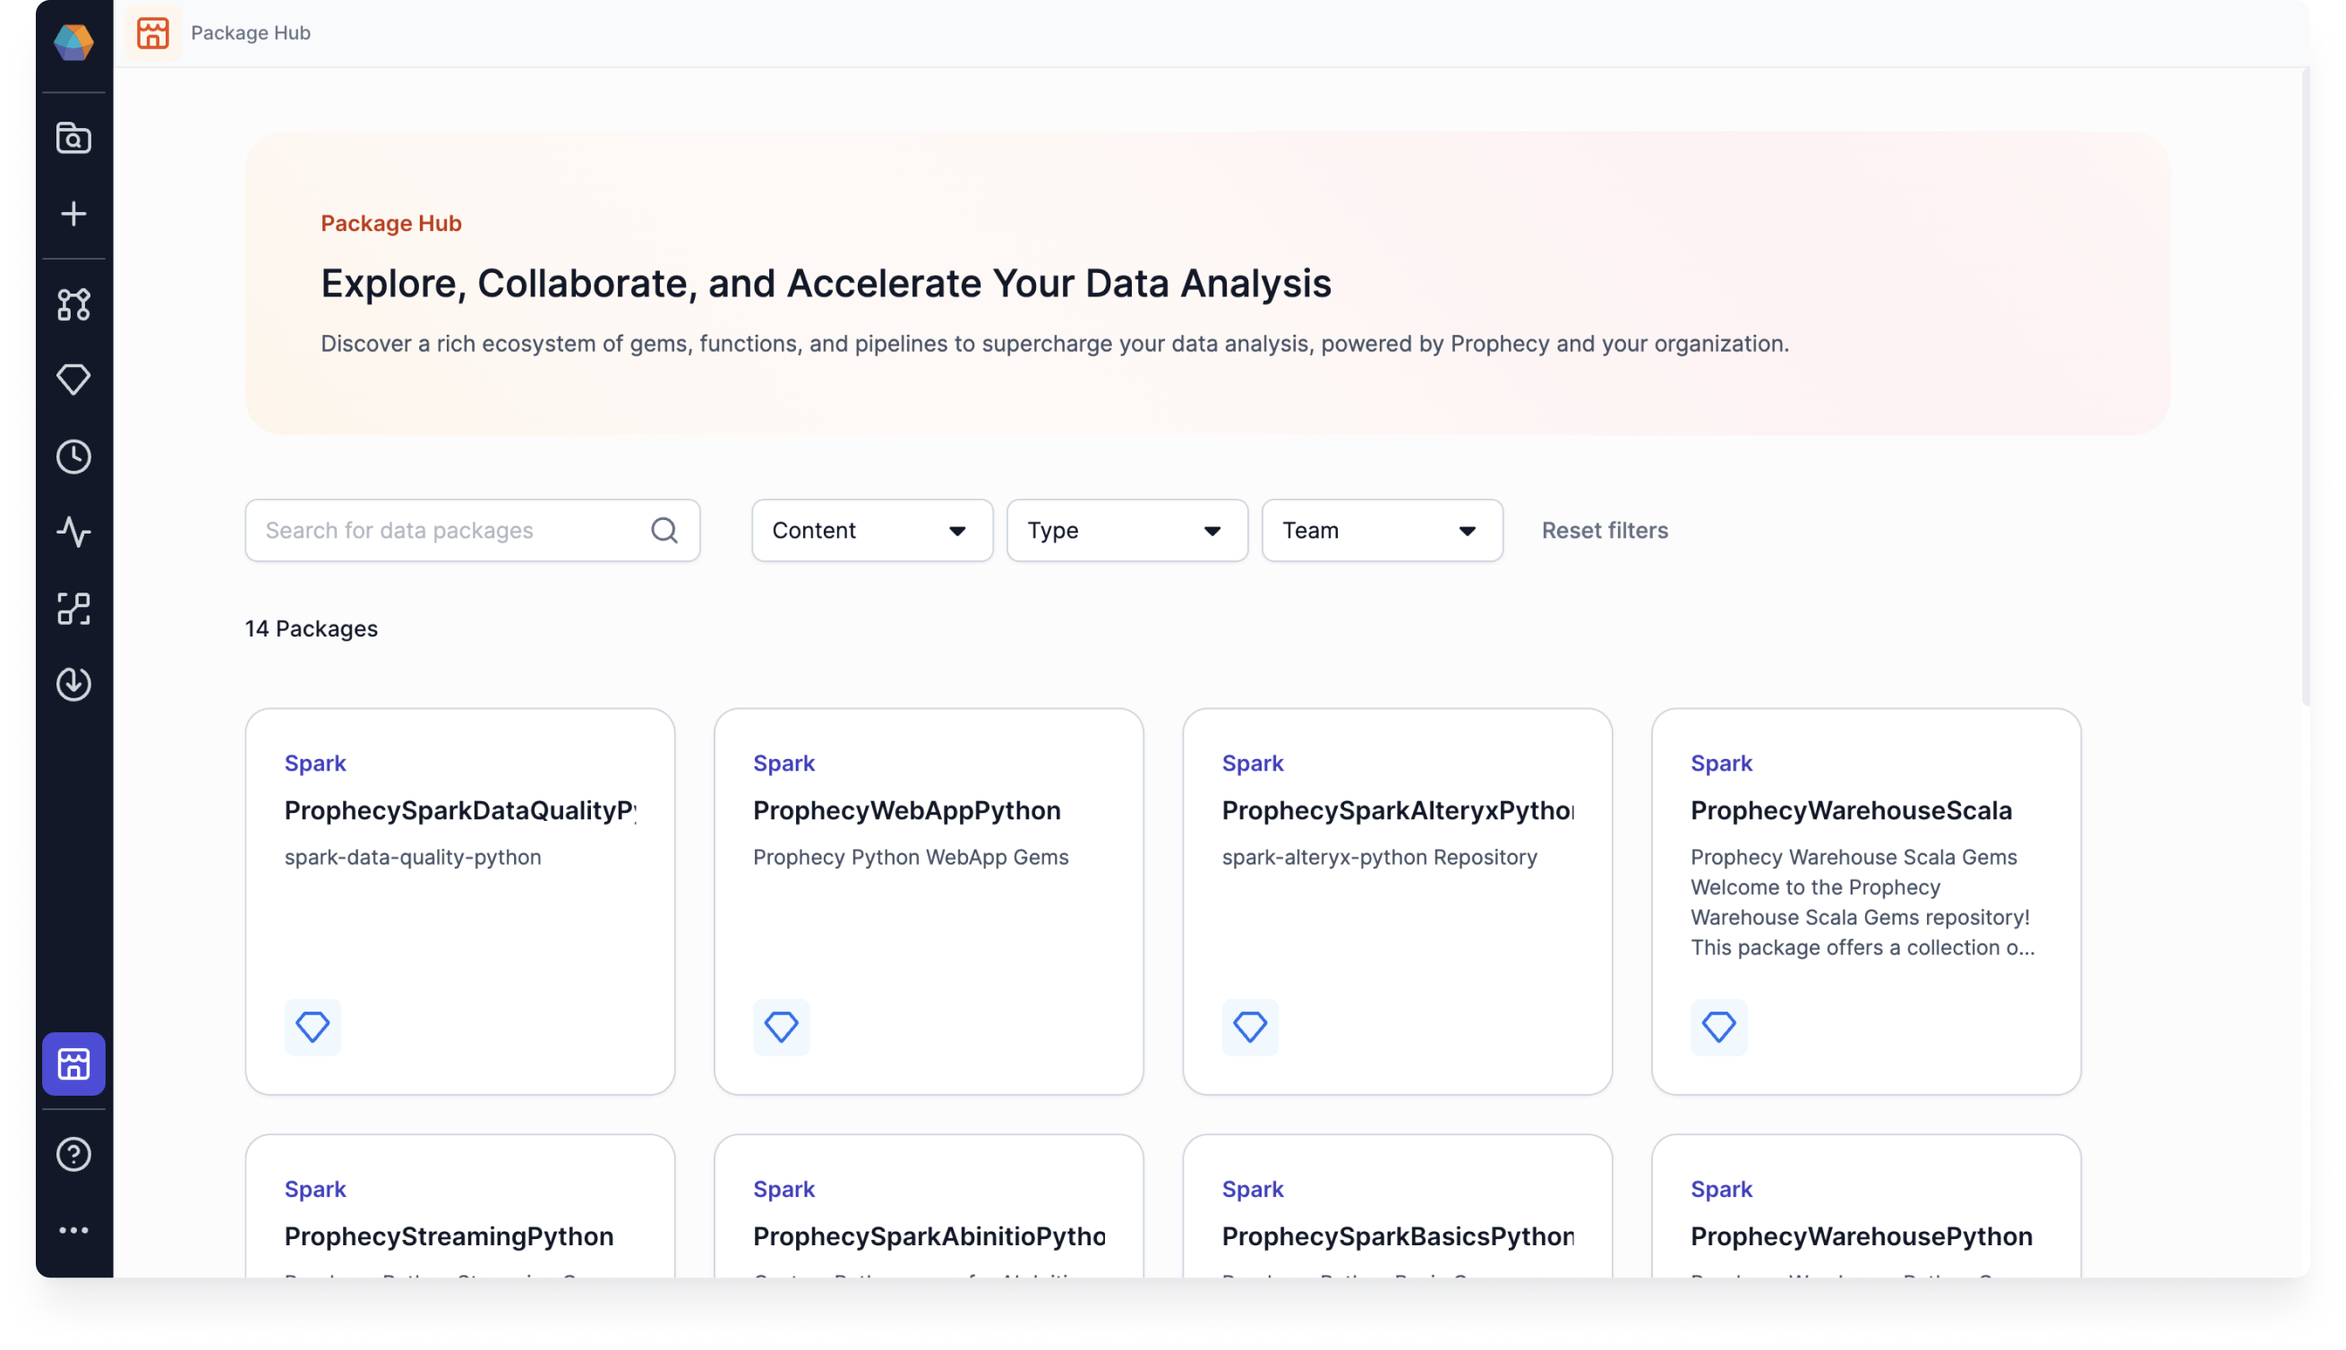
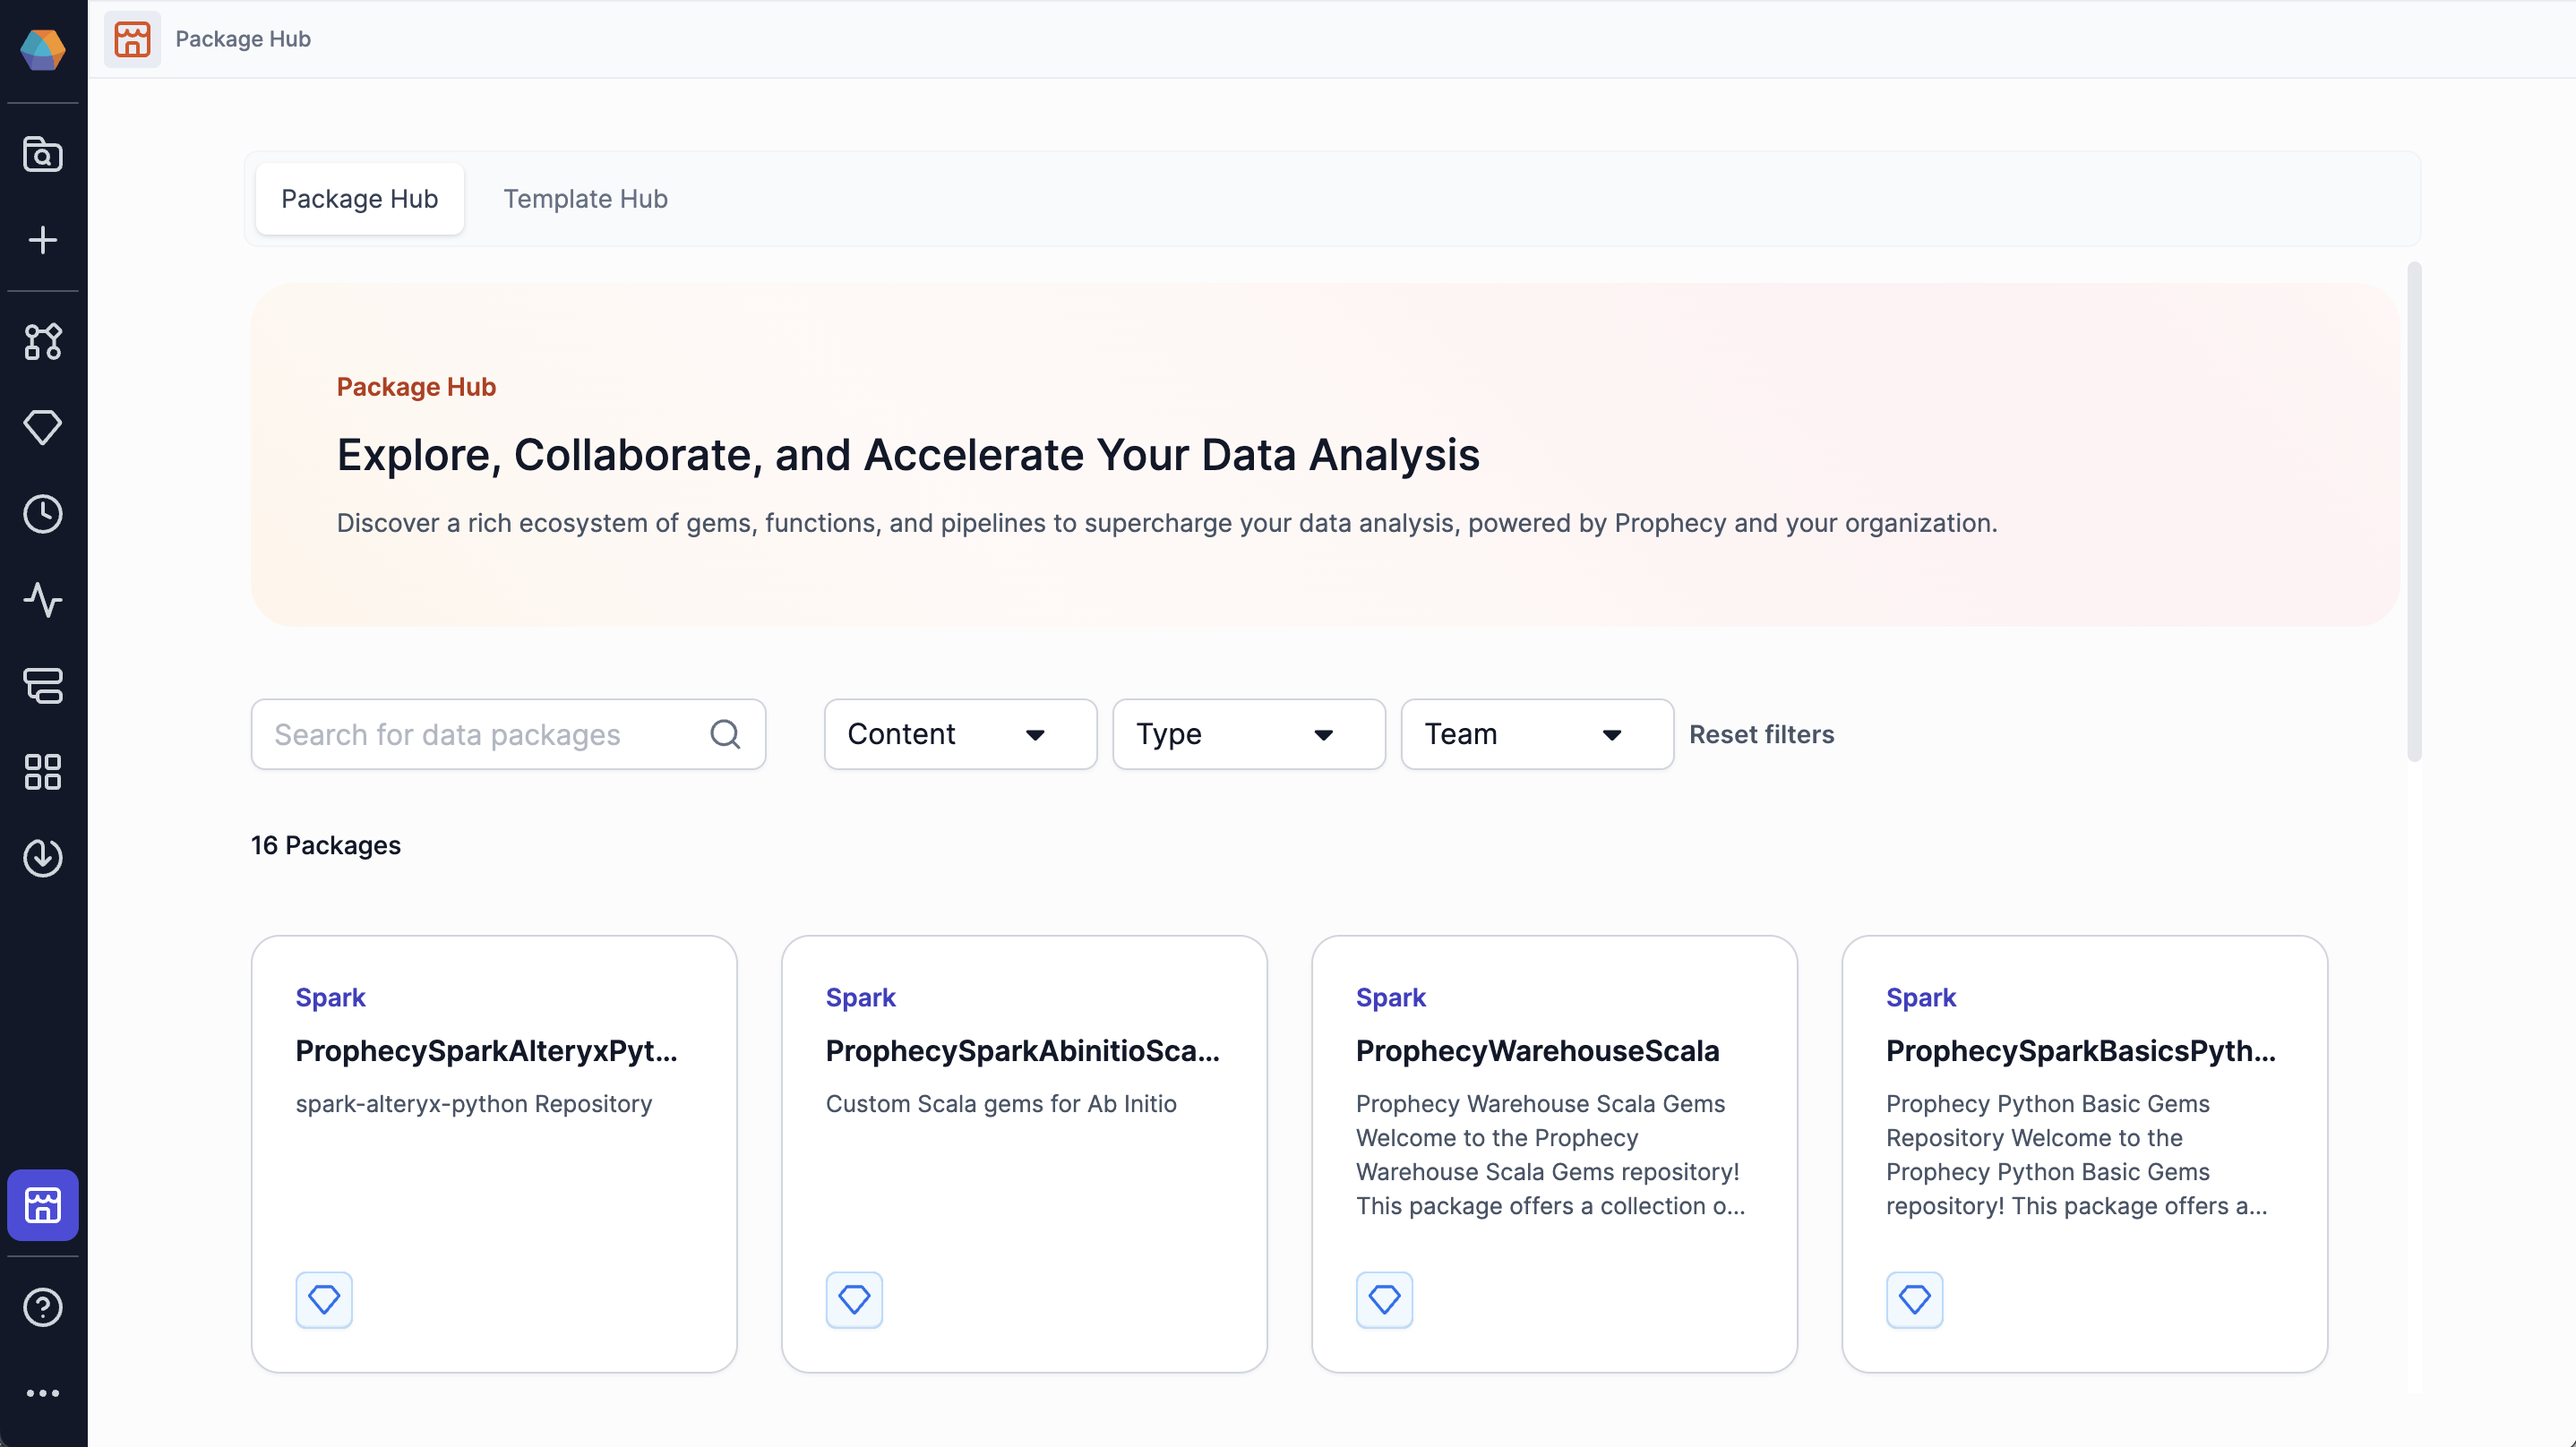
added template hub docs (#680)

diff --git a/sidebars.js b/sidebars.js
@@ -774,6 +774,7 @@ const sidebars = {
           label: "Package Hub",
           link: { type: "doc", id: "extensibility/package-hub/package-hub" },
           items: [
+            "extensibility/package-hub/template-hub",
             "extensibility/package-hub/shareable-pipelines",
             "extensibility/package-hub/shareable-datasets",
             "extensibility/package-hub/shareable-subgraphs",

diff --git a/docs/extensibility/package-hub/template-hub.md b/docs/extensibility/package-hub/template-hub.md
@@ -1,0 +1,49 @@
+---
+title: Template Hub
+id: template-hub
+slug: /analysts/template-hub
+description: Learn about the sample pipelines in Template Hub.
+tags: [template-hub]
+---
+
+The following lists the pipelines available in each category.
+
+## Transportation
+
+| Pipeline name                 | Gems used                                                                                                                                                     | Description                                                                                                                                                                                                                 |
+| ----------------------------- | ------------------------------------------------------------------------------------------------------------------------------------------------------------- | --------------------------------------------------------------------------------------------------------------------------------------------------------------------------------------------------------------------------- |
+| l2_gold_airport_delay_metrics | [Table](/analysts/table)<br/> [Join](/analysts/join)<br/> [Filter](/analysts/filter)<br/> [Aggregate](/analysts/aggregate)<br/> [OrderBy](/analysts/order-by) | Computes the airport-level delay metrics using flight data from the past 30 days. It aggregates departure and arrival delays, cancellation rates, and overall on-time performance for both origin and destination airports. |
+
+## Healthcare
+
+| Pipeline name                  | Gems used                                                                                                                                                                                                    | Description                                                                                                                                                     |
+| ------------------------------ | ------------------------------------------------------------------------------------------------------------------------------------------------------------------------------------------------------------ | --------------------------------------------------------------------------------------------------------------------------------------------------------------- |
+| L0_raw_clinical_trials         | [Table](/analysts/table)<br/> [Filter](/analysts/filter)<br/> [FlattenSchema](/analysts/flatten-schema)<br/> [DataCleansing](/analysts/data-cleansing)                                                       | Cleans up clinical trial data by filtering out malformed records, transforms nested data into tabular format, and removed all leading and trailing whitespaces. |
+| L1_hipaa_compliance            | [Table](/analysts/table)<br/> [Reformat](/analysts/reformat)                                                                                                                                                 | Makes the patients ID, age, and zipcode HIPAA compliant.                                                                                                        |
+| L2_clinical_trial_gap_analysis | [Table](/analysts/table)<br/> [Filter](/analysts/filter)<br/> [Aggregate](/analysts/aggregate)<br/> [OrderBy](/analysts/order-by)<br/> [DataCleansing](/analysts/data-cleansing)<br/> [Join](/analysts/join) | Performs a gap analysis to determine the cost of each diagnosis without clinical trials.                                                                        |
+| L2_gold_daily_billing_report   | [Table](/analysts/table)<br/> [Reformat](/analysts/reformat)<br/> [Filter](/analysts/filter)<br/> [Aggregate](/analysts/aggregate)                                                                           | Determine the daily total a provider makes and how many patients they see.                                                                                      |
+
+## Manufacturing
+
+| Pipeline name              | Gems used                                                                                                                      | Description                                                                                                                                                                                                                                |
+| -------------------------- | ------------------------------------------------------------------------------------------------------------------------------ | ------------------------------------------------------------------------------------------------------------------------------------------------------------------------------------------------------------------------------------------ |
+| L2_defect_rate_analysis    | [Table](/analysts/table)<br/> [Reformat](/analysts/reformat)<br/> [WindowFunction](/analysts/window)                           | Analyzes the production job defect rates by calculating the defect rate per job for each production line and month, then ranks these defect rates into percentiles to help identify how jobs compare within the same line and time period. |
+| L2_part_processing_metrics | [Table](/analysts/table)<br/> [Aggregate](/analysts/aggregate)<br/> [Join](/analysts/join)<br/> [Reformat](/analysts/reformat) | Calculates the average, median, minimum and maximum for manufacturing parts by measuring the hours taken to start and complete events for each part number.                                                                                |
+
+## Finance
+
+| Pipeline name                 | Gems used                                                                                                                                                         | Description                                                                                                                                                                                                                                       |
+| ----------------------------- | ----------------------------------------------------------------------------------------------------------------------------------------------------------------- | ------------------------------------------------------------------------------------------------------------------------------------------------------------------------------------------------------------------------------------------------- |
+| L2_customer_financial_profile | [Table](/analysts/table)<br/> [Reformat](/analysts/reformat)<br/> [OrderBy](/analysts/order-by)<br/> [Aggregate](/analysts/aggregate)<br/> [Join](/analysts/join) | Creates a detailed customer financial profile while masking sensitive information by combining raw data from various source tables and summarizing each customer’s account activity, loan details, credit score history and transaction spending. |
+
+## Retail
+
+| Pipeline name             | Gems used                                                                                                                                                                                                     | Description                                                                                                                                                                      |
+| ------------------------- | ------------------------------------------------------------------------------------------------------------------------------------------------------------------------------------------------------------- | -------------------------------------------------------------------------------------------------------------------------------------------------------------------------------- |
+| L2_gold_campaign_analysis | [Table](/analysts/table)<br/> [Aggregate](/analysts/aggregate)<br/> [Join](/analysts/join)<br/> [Filter](/analysts/filter)<br/> [FlattenSchema](/analysts/flatten-schema)<br/> [Reformat](/analysts/reformat) | Calculates a campaign-level return on investment (ROI), summarizes total earnings and costs per product and computes ROI as the percentage gain relative to the marketing spend. |
+
+## Energy
+
+| Pipeline name            | Gems used                                                                                                                                                                                                                                                                   | Description                                                                                                                                                                                     |
+| ------------------------ | --------------------------------------------------------------------------------------------------------------------------------------------------------------------------------------------------------------------------------------------------------------------------- | ----------------------------------------------------------------------------------------------------------------------------------------------------------------------------------------------- |
+| l2_monthly_energy_report | [Table](/analysts/table)<br/> [Reformat](/analysts/reformat)<br/> [Aggregate](/analysts/aggregate)<br/> [WindowFunction](/analysts/window)<br/> [Join](/analysts/join)<br/> [Reformat](/analysts/reformat)<br/> [Union](/analysts/union)<br/> [OrderBy](/analysts/order-by) | Calculates the percentile rank of each energy asset based on its monthly energy production and benchmarks asset performance across different asset dimensions such as state, region, assetType. |

diff --git a/docs/extensibility/package-hub/package-hub.md b/docs/extensibility/package-hub/package-hub.md
@@ -8,18 +8,26 @@ tags: [package-hub]
 
 To extend the functionality of a project, you can download **packages** from the Package Hub. Packages are **versioned projects** that contain shareable components, such as pipelines, gems, business rules, user-defined functions, jobs, macros, models, and more.
 
-The Package Hub includes both Prophecy-provided packages, as well as packages that you can publish yourself!
+The Package Hub includes Prophecy-provided packages and packages that you can publish yourself.
 
 ![Package Hub landing page](img/package-hub.png)
 
+The Template Hub provides pipeline templates you can run to further your understanding of how our gems work. Then, if you want to do the same thing in your project, you can copy it over to your own environment.
+
+![Template Hub landing page](img/template-hub.png)
+
 ## Add to the Package Hub
 
-If you want to create reuseable components for yourself and others:
+To create reuseable components for yourself and others:
 
 1. Create a project.
+
 1. Build the component(s).
+
 1. [Release and deploy](/engineers/deployment) the project.
+
 1. Share your project with other teams in the Access tab of the [project metadata](docs/getting-started/concepts/project.md) page.
+
 1. Publish the project to the Package Hub.
 
 ![Publish to Package Hub](img/package-hub-publish.png)
@@ -49,6 +57,26 @@ There are a few different ways to add a package to a project:
 ![Import from Package Hub](img/package-hub-import.png)
 
 You cannot change package components that have been imported in a project. You can only change the components from the source project.
+
+## Use a pipeline template
+
+You can use a pipeline template if you are a new Prophecy user in version 4.1 and above.
+
+To use a pipeline template:
+
+1. At the top left, select the **Template Hub** tab.
+
+1. Click on a template you would like to run.
+
+   Each template contains several tables, and at least one pipeline.
+
+   To learn about what each sample pipelines does, see [Template Hub](/analysts/template-hub).
+
+1. Select and run a pipeline.
+
+   :::note
+   Prophecy automatically attaches a fabric for you to use.
+   :::
 
 ## FAQ
 
